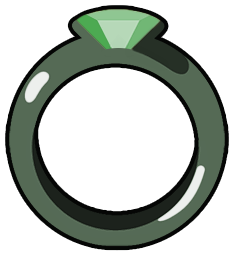
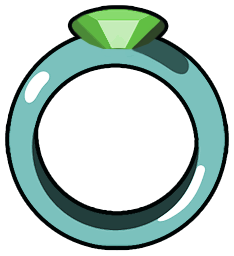
Sostituite le icone Nove e Sette con la nuova arte (v11.94)
Nuove immagini fornite dall'utente (canvas 234x256, identico all'attuale):
- icons/Nove.webp e icons/Sette.webp rigenerate in WebP q90 visually-lossless
  (diff visibile media <1.2 livelli);
- icons_png/Nove.png e Sette.png (backup sorgente) aggiornati alle nuove PNG.
Nessuna modifica a CSS/regolazioni/allineamenti (stesso canvas/bbox → le regole
.si-nove/.si-sette e i nudge di legenda restano validi come sono). Render check:
0 icone rotte, 0 richieste fallite, 0 errori JS.

Claude-Session: https://claude.ai/code/session_01VTTS1HDTd6o8vdQkkFZC4u

Changed region(s): [[0.0299, 0.0312, 0.9872, 0.9688]]

diff --git a/top/dati.js b/top/dati.js
@@ -1,4 +1,4 @@
-var datiVersion = "11.93";
+var datiVersion = "11.94";
 var cardColors = {"fam":{"noldo":{"dark":"#5b95e1","light":"#1d61b9"},"sinda":{"dark":"#2bb8a6","light":"#159e8f"},"maia":{"dark":"#6ad276","light":"#2fa73c"},"rohir":{"dark":"#9fb641","light":"#8a9a2a"},"vala":{"dark":"#ff3d9a","light":"#d60067"},"orc":{"dark":"#a06be0","light":"#7a3fce"},"beast":{"dark":"#d5a568","light":"#aa732c"},"man":{"dark":"#9098a8","light":"#6f7482"},"half-elf":{"dark":"#3dd8ff","light":"#00abd6"},"numenorean":{"dark":"#eb5151","light":"#c41212"},"hobbit":{"dark":"#ff9b3d","light":"#d66700"},"dwarf":{"dark":"#ffef3d","light":"#d6c400"},"shadow":{"dark":"#b88493","light":"#894d5f"},"vanya":{"dark":"#3df2ff","light":"#00c8d6"},"adan":{"dark":"#ee9b4e","light":"#c8680e"}},"map":{"type-noldo":"noldo","type-half-elf":"half-elf","type-sinda":"sinda","type-teler":"sinda","type-vanya":"vanya","type-falma":"sinda","type-eagle":"sinda","type-maia":"maia","type-ent":"maia","type-spirit":"maia","type-rohir":"rohir","type-northman":"rohir","type-eotheod":"rohir","type-hobbit":"hobbit","type-dwarf":"dwarf","type-hador":"adan","type-beor":"adan","type-haleth":"adan","type-dunadan":"numenorean","type-numenorean":"numenorean","type-dragon":"shadow","type-wolf":"shadow","type-balrog":"shadow","type-spider":"shadow","type-vala":"vala","type-valie":"vala","type-orc":"orc","type-shadow":"orc","type-mystery":"orc","type-morgoth":"orc","type-troll":"orc","type-darkmaia":"orc","type-beast":"beast","type-fallback":"man"}};
 var badgeAdjust = {"aratar":{"ml":0,"mr":0,"ny":0,"sc":1},"calaquende":{"ml":-0.075,"mr":-0.06,"ny":-0.04,"sc":1},"silmaril":{"ml":-0.05,"mr":0,"ny":-0.02,"sc":1},"incarnazione":{"ml":-0.05,"mr":0,"ny":-0.075,"sc":0.98},"helcaraxe":{"ml":-0.1,"mr":-0.11,"ny":0,"sc":1},"morgoth":{"ml":-0.015,"mr":-0.06,"ny":0,"sc":1},"guerradira":{"ml":-0.05,"mr":0,"ny":0,"sc":0.97},"suicidio":{"ml":-0.05,"mr":0,"ny":-0.03,"sc":1},"fellowship":{"ml":-0.03,"mr":-0.095,"ny":0,"sc":1},"istari":{"ml":-0.05,"mr":-0.05,"ny":0,"sc":1},"survivor":{"ml":0,"mr":0,"ny":0,"sc":1},"navi":{"ml":-0.05,"mr":-0.015,"ny":-0.065,"sc":1},"drago":{"ml":-0.05,"mr":0,"ny":-0.05,"sc":1},"balrog":{"ml":-0.06,"mr":0,"ny":-0.025,"sc":0.98},"king_std":{"ml":-0.056,"mr":-0.03,"ny":-0.095,"sc":1},"king_high":{"ml":-0.056,"mr":-0.03,"ny":-0.095,"sc":1},"king_high_now":{"ml":-0.056,"mr":0,"ny":-0.06,"sc":1},"onering":{"ml":-0.04,"mr":-0.04,"ny":-0.02,"sc":0.75},"ringelven":{"ml":-0.02,"mr":-0.02,"ny":-0.09,"sc":0.94},"ringdm":{"ml":-0.02,"mr":-0.02,"ny":-0.03,"sc":0.82},"male":{"ml":-0.04,"mr":0,"ny":-0.07,"sc":1},"female":{"ml":-0.04,"mr":0,"ny":0.195,"sc":1}};
 var dati = [

diff --git a/top/index.html b/top/index.html
@@ -2266,7 +2266,7 @@ var FEATURES = { genderLegendPill: false, langSwitchMobile: false, oneRing: 'A',
 <body>
 <header>
   <div class="brand-corner">
-    <span class="version-badge">v11.93</span><a class="home-link" href="https://roccobot.me" target="_blank" rel="noopener">roccobot.me</a>
+    <span class="version-badge">v11.94</span><a class="home-link" href="https://roccobot.me" target="_blank" rel="noopener">roccobot.me</a>
   </div>
   <button class="lang-switch" id="lang-switch" aria-label="Switch language"><span class="ls-face">EN</span><span class="ls-measure" aria-hidden="true">EN</span></button>
   <div class="crest" id="crest">Roccobot presenta</div>
